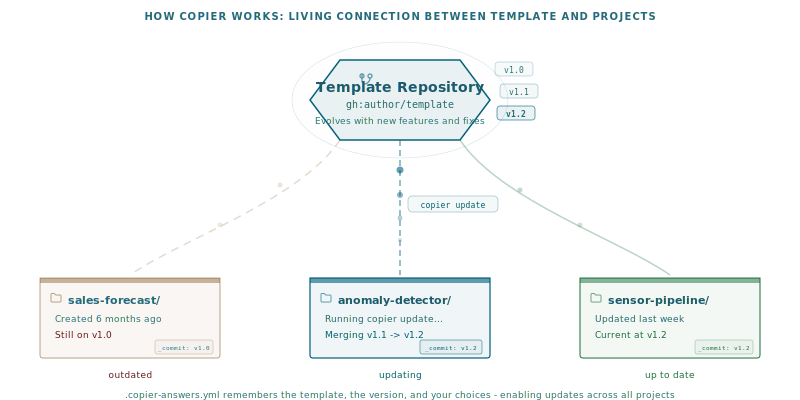
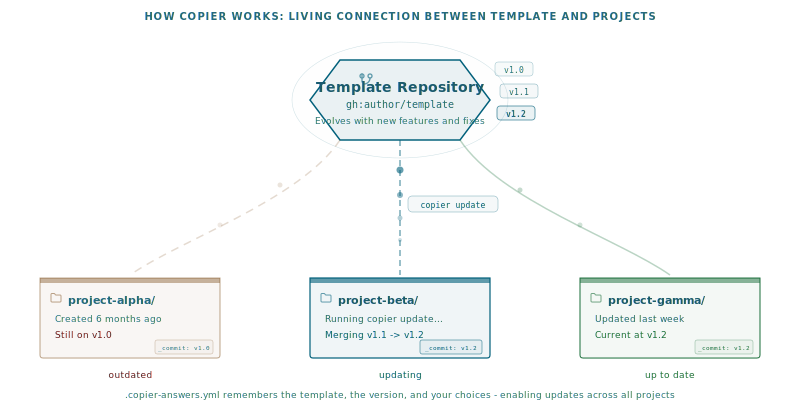
docs: add Copier introduction paragraph and rename SVG projects
- added short intro paragraph explaining what Copier is before the
  detailed comparison section
- renamed SVG project nodes from domain-specific names (sales-forecast,
  anomaly-detector, sensor-pipeline) to generic (project-alpha,
  project-beta, project-gamma)

Changed region(s): [[0.4062, 0.72, 0.5625, 0.78], [0.75, 0.72, 0.9062, 0.78], [0.0625, 0.72, 0.1875, 0.78]]

diff --git a/docs/medium/copier-data-science-opinionated-evolution.en_US.md b/docs/medium/copier-data-science-opinionated-evolution.en_US.md
@@ -92,6 +92,8 @@ This only works if the template reflects current best practices. A template froz
 
 ## The Copier difference
 
+If you have not heard of [Copier](https://copier.readthedocs.io/) - it is a project scaffolding tool, similar to Cookiecutter, but with one fundamental difference: it maintains a connection between the template and the projects it generates. Copier stores your answers in `.copier-answers.yml` alongside the template version that generated the project. When the template evolves, `copier update` computes the diff between the old and new template versions, applies changes to your project, and preserves your customizations. It is open source, written in Python, and works with any Git-hosted template.
+
 The single biggest limitation of cookiecutter is that it is copy-once. You scaffold a project, cookiecutter's job is done. The template improves, adds Docker support, fixes a dependency issue - none of that reaches your existing project.
 
 ![How Copier Works](images/18-copier-concept.svg)
